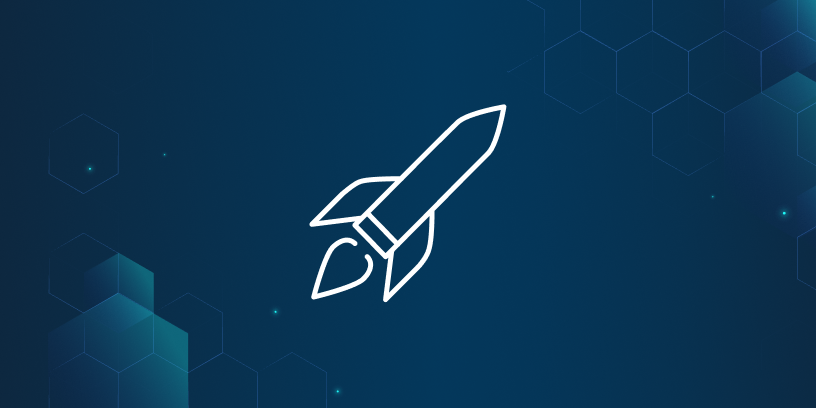
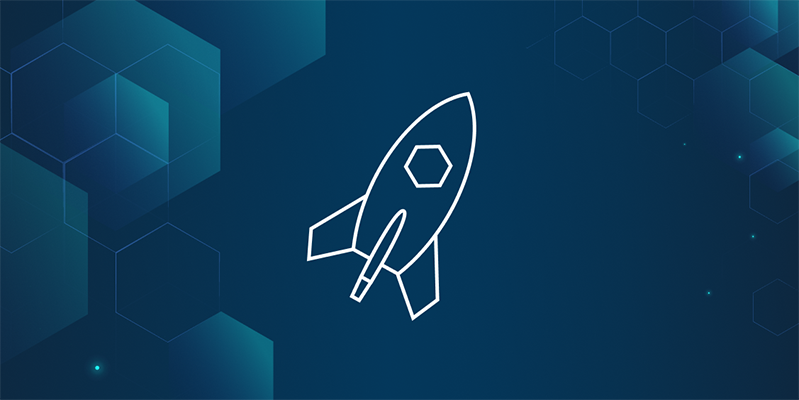
Replace fallback images, add blog fallback

diff --git a/src/.vuepress/theme/components/blog/PostHero.vue b/src/.vuepress/theme/components/blog/PostHero.vue
@@ -25,7 +25,7 @@
             <LazyImage
               img-class="object-contain rounded w-full"
               :alt="$page.title"
-              :src="`${image ? image : '/header-image-placeholder.png'}`"
+              :src="`${image ? image : '/blog-post-placeholder.png'}`"
             />
           </div>
         </div>

diff --git a/src/.vuepress/theme/components/blog/RegularCard.vue b/src/.vuepress/theme/components/blog/RegularCard.vue
@@ -20,7 +20,7 @@
             :src="`${
               frontmatter.header_image
                 ? frontmatter.header_image
-                : '/header-image-placeholder.png'
+                : '/blog-post-placeholder.png'
             }`"
             src-placeholder="/card-placeholder.png"
             :ctx="regularPath"

diff --git a/src/.vuepress/theme/layouts/BlogPost.vue b/src/.vuepress/theme/layouts/BlogPost.vue
@@ -15,7 +15,7 @@
             :src="
               $frontmatter.image
                 ? $frontmatter.image
-                : '/header-image-placeholder.png'
+                : '/blog-post-placeholder.png'
             "
           />
         </div>
